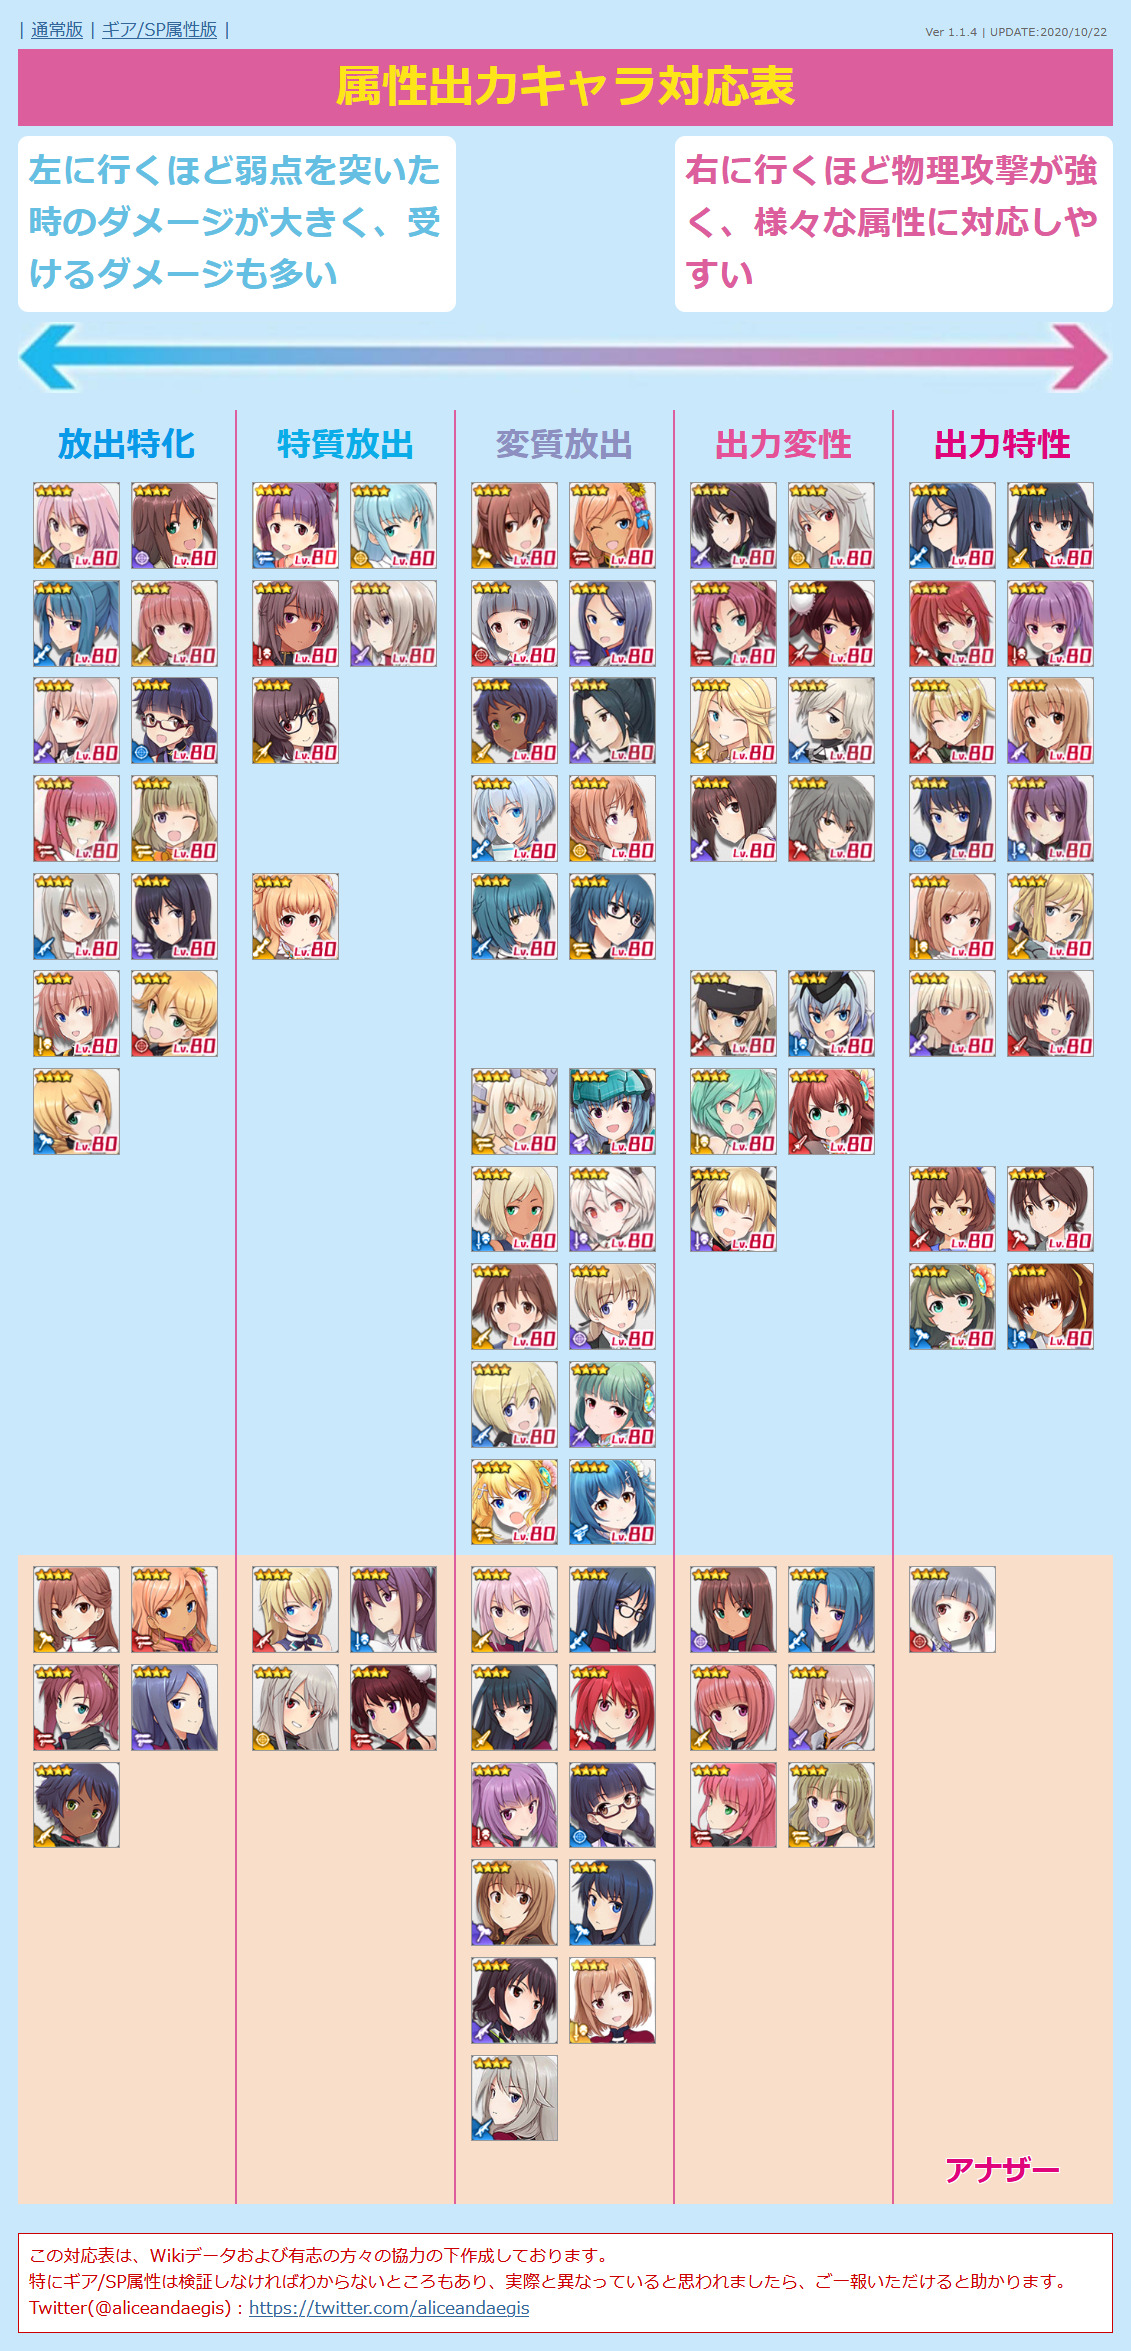
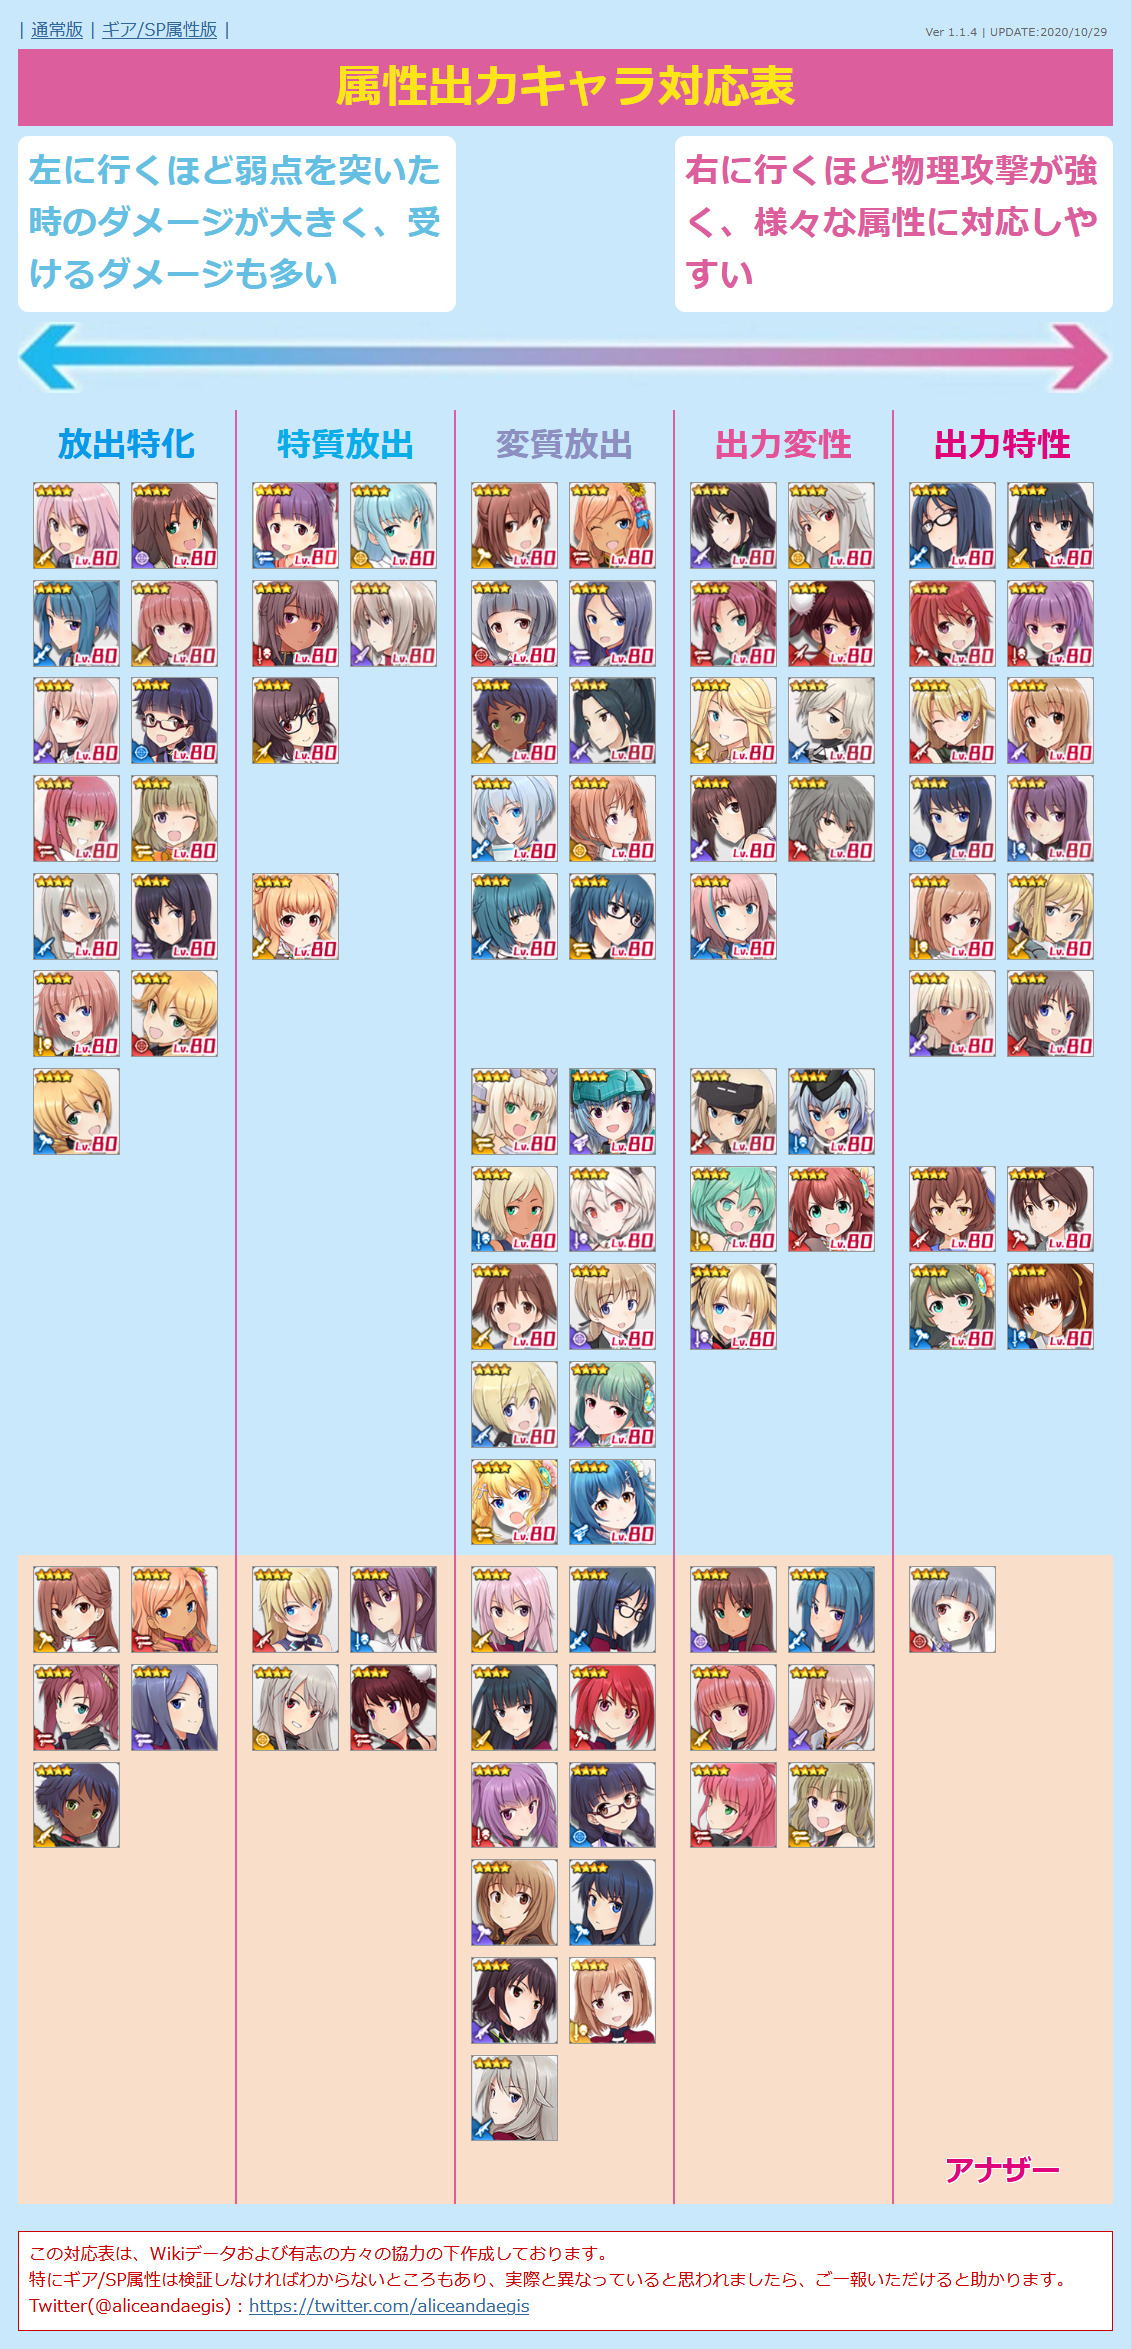
UPDATE chara data
・伊戸倉 音緒のギア属性修正
・州天頃 椎奈のギア属性修正
・天狐 天を追加（分かる範囲のみ）

diff --git a/alice.html b/alice.html
@@ -12,7 +12,7 @@
   <script>
 
 /* 更新情報 必要に応じて書き換えてください */
-  var version = "Ver 1.1.4 | UPDATE:2020/10/22";
+  var version = "Ver 1.1.4 | UPDATE:2020/10/29";
 
 /*
   jsonファイルを外部に設置すると単にHTMLファイルを開いたときに動作しなくなるので当面はHTMLファイル内に
@@ -729,7 +729,7 @@
       "src": "normal-shiina.png",
       "name": "州天頃 椎奈",
       "equip1": "1",
-      "equip2": "4/4?",
+      "equip2": "45/45",
       "equip3": "3/3?",
       "equip4": "25",
       "sp": "4",
@@ -743,10 +743,10 @@
       "src": "another-shiina.png",
       "name": "州天頃 椎奈 / 玉響",
       "equip1": "1",
-      "equip2": "4/4?",
+      "equip2": "45/45",
       "equip3": "3/3?",
       "equip4": "25",
-      "sp": "45?",
+      "sp": "45",
       "attr": "1",
       "link": "https://wikiwiki.jp/alicegear/%E5%B7%9E%E5%A4%A9%E9%A0%83%E6%A4%8E%E5%A5%88%E7%8E%89%E9%9F%BF",
       "category": "10"
@@ -1096,9 +1096,23 @@
       "equip2": "35?",
       "equip3": "25?",
       "equip4": "25",
-      "sp": "25?",
+      "sp": "25",
       "attr": "1",
       "link": "https://wikiwiki.jp/alicegear/%E4%BC%8A%E6%88%B8%E5%80%89%E9%9F%B3%E7%B7%92",
+      "category": ""
+    },
+    {
+      "id": "49",
+      "type": "4",
+      "src": "normal-sora.png",
+      "name": "天狐 天",
+      "equip1": "1",
+      "equip2": "3?",
+      "equip3": "1",
+      "equip4": "25",
+      "sp": "34?",
+      "attr": "4",
+      "link": "https://wikiwiki.jp/alicegear/%E5%A4%A9%E7%8B%90%E5%A4%A9",
       "category": ""
     },
     {
